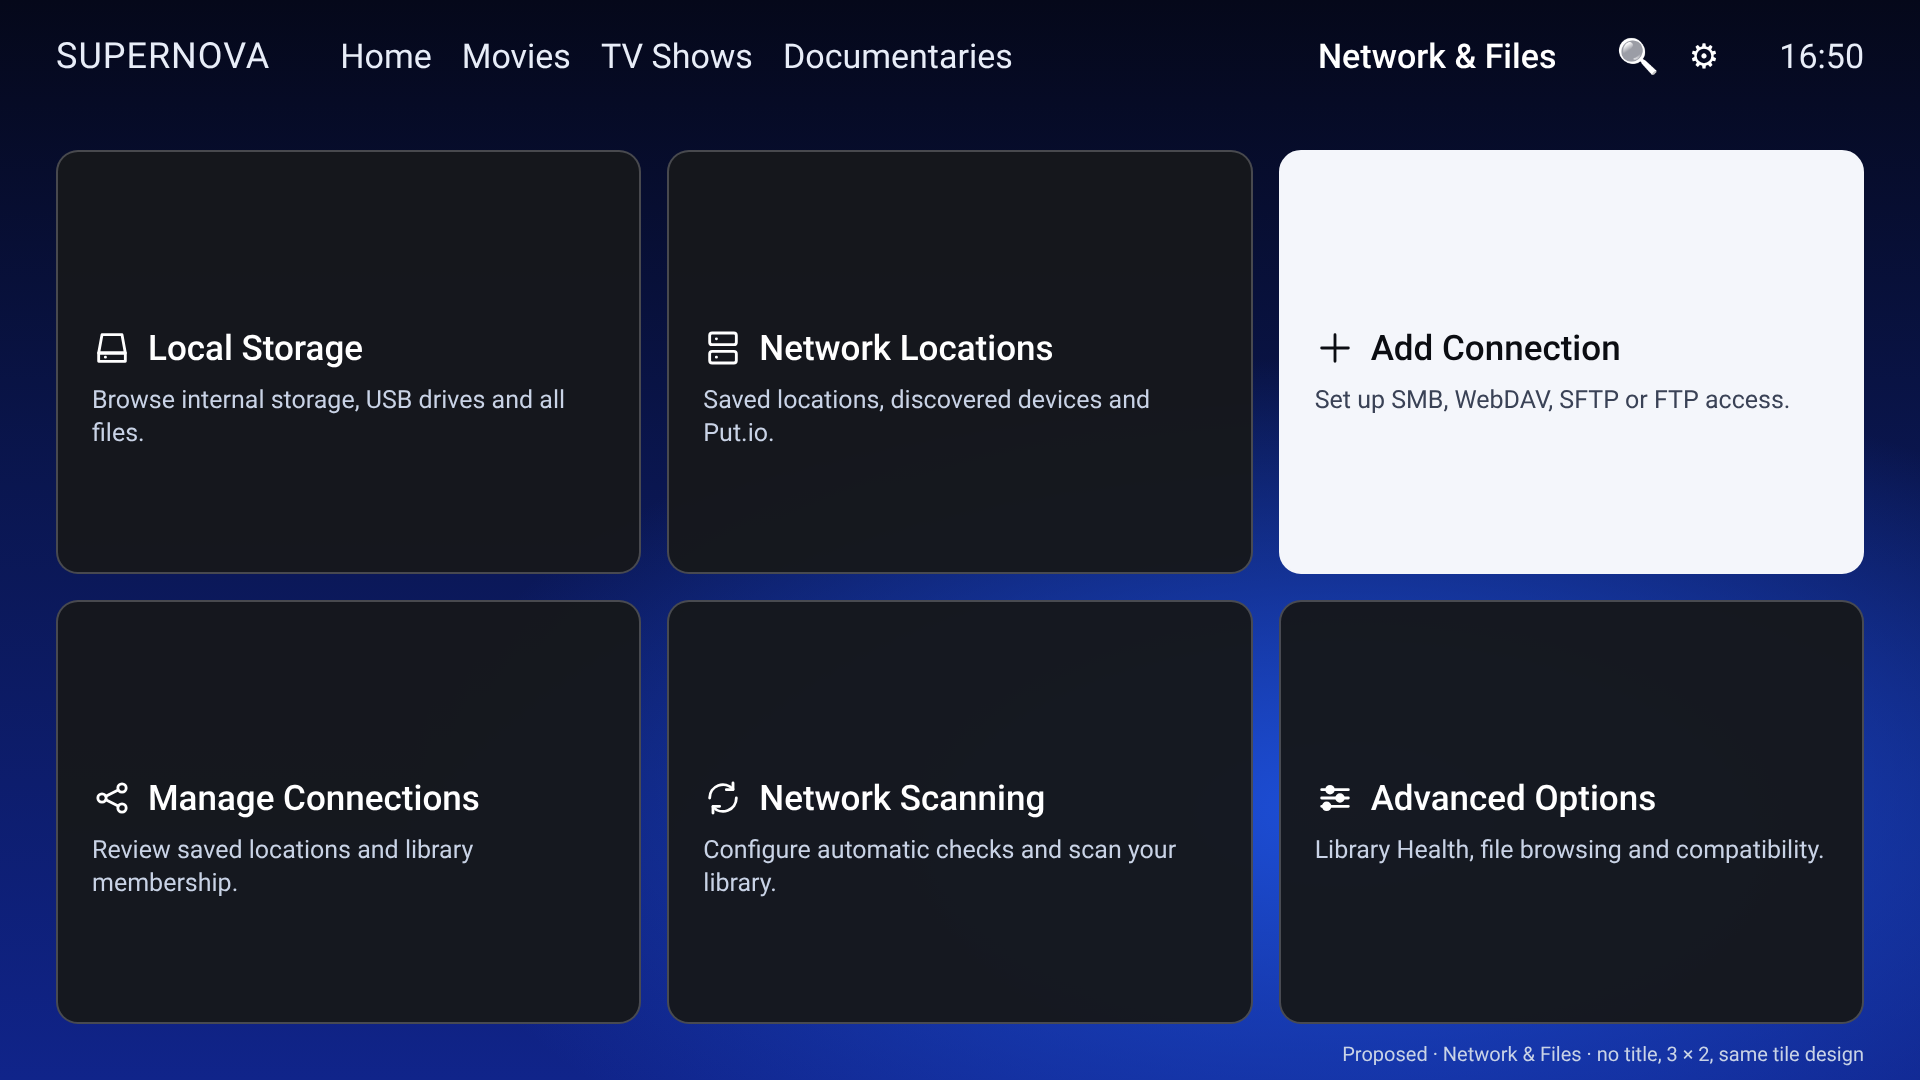
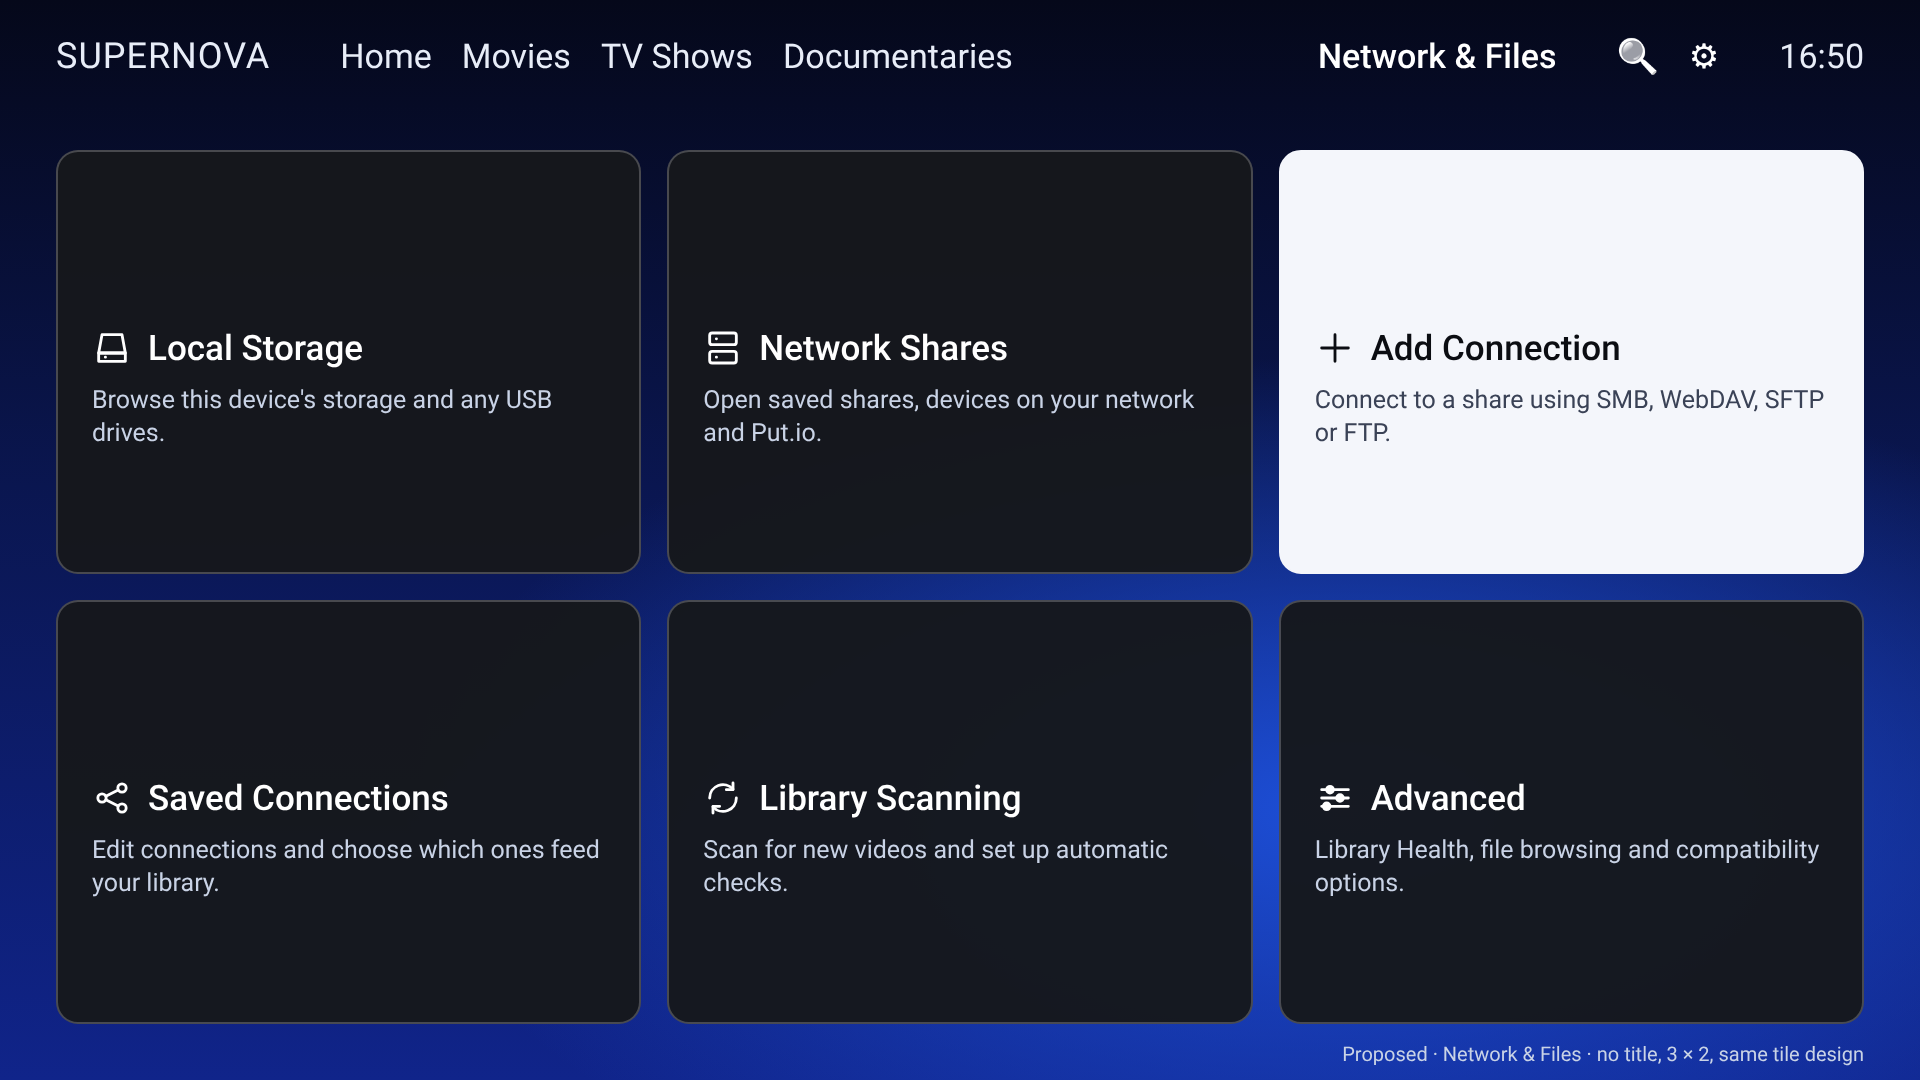
Mock-up: Network & Files tiles with proposed names and descriptions
Claude-Session: https://claude.ai/code/session_01FtDZqamY6pdaUKwc7fqgiA

diff --git a/docs/design/proposals/landing-tiles/render.js b/docs/design/proposals/landing-tiles/render.js
@@ -35,12 +35,12 @@ const settings = [
   ['info', 'About Supernova', 'Version information, credits and legal details.'],
 ];
 const network = [
-  ['drive', 'Local Storage', 'Browse internal storage, USB drives and all files.'],
-  ['servers', 'Network Locations', 'Saved locations, discovered devices and Put.io.'],
-  ['plus', 'Add Connection', 'Set up SMB, WebDAV, SFTP or FTP access.', true],
-  ['links', 'Manage Connections', 'Review saved locations and library membership.'],
-  ['scan', 'Network Scanning', 'Configure automatic checks and scan your library.'],
-  ['sliders', 'Advanced Options', 'Library Health, file browsing and compatibility.'],
+  ['drive', 'Local Storage', "Browse this device's storage and any USB drives."],
+  ['servers', 'Network Shares', 'Open saved shares, devices on your network and Put.io.'],
+  ['plus', 'Add Connection', 'Connect to a share using SMB, WebDAV, SFTP or FTP.', true],
+  ['links', 'Saved Connections', 'Edit connections and choose which ones feed your library.'],
+  ['scan', 'Library Scanning', 'Scan for new videos and set up automatic checks.'],
+  ['sliders', 'Advanced', 'Library Health, file browsing and compatibility options.'],
 ];
 const TILE = { charcoal: 'rgba(22,24,28,.97)', navy: 'rgba(26,31,92,.97)' };
 const nav = active => `<div class="nav"><span class="brand">SUPERNOVA</span><span>Home</span><span>Movies</span><span>TV Shows</span><span>Documentaries</span>
